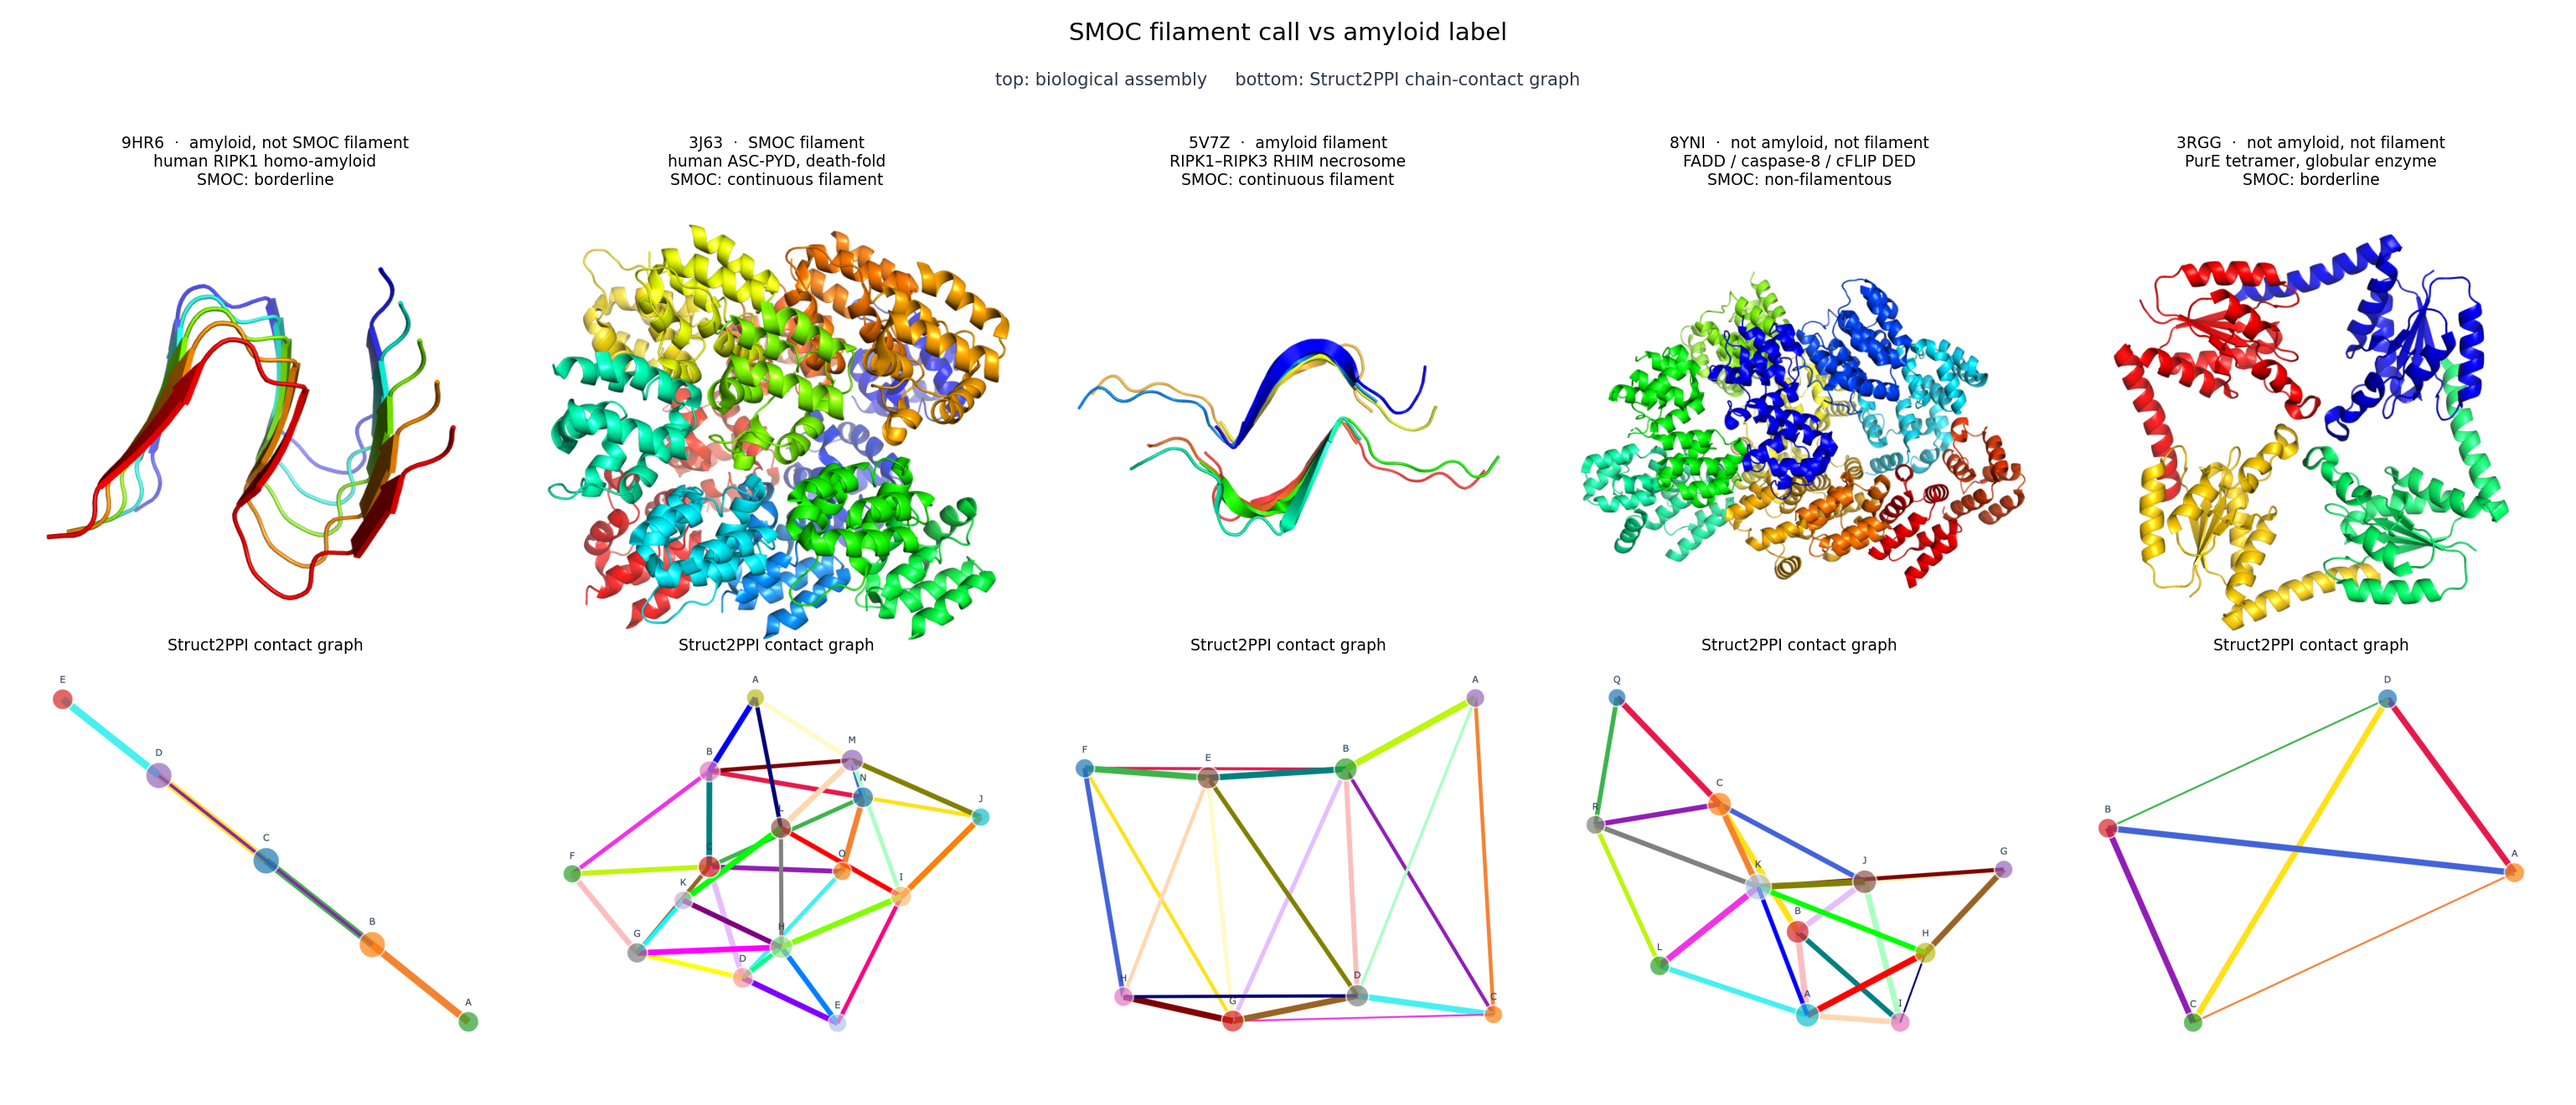
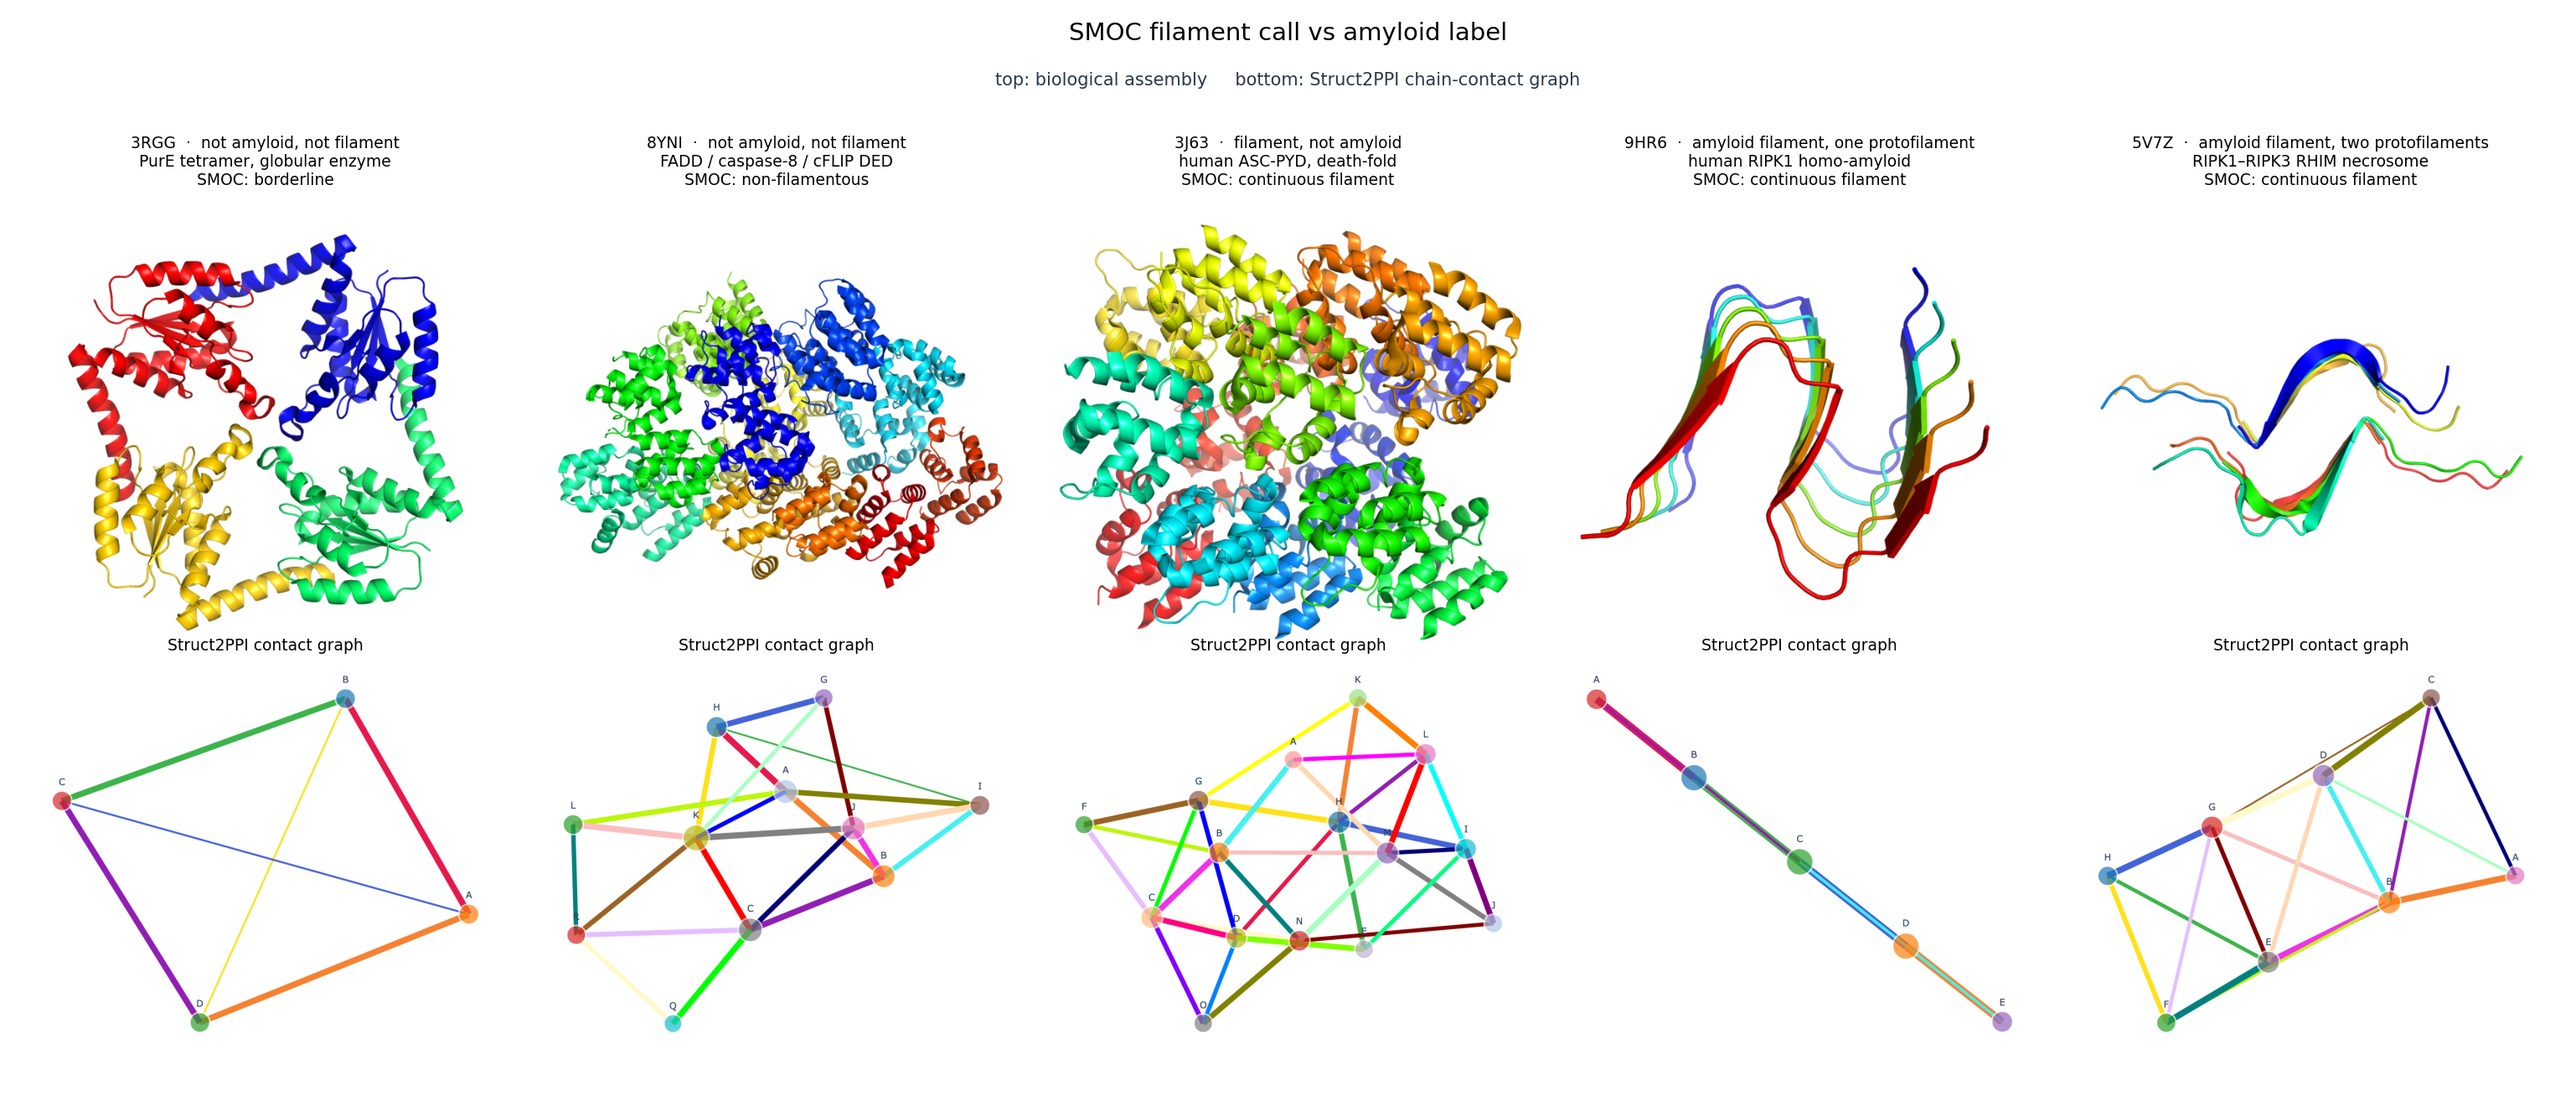
Keep grazing contacts and one-cut interiors from deciding the filament call.
A chain pair sharing a handful of residue contacts is not an interface, but
the half-max banding rule counted it like one, so three second-neighbour
edges of 3 residue pairs widened the band of the RIPK1 fibril 9HR6 and left
its 5-chain stack with no interior to measure. Edges below 5 residue pairs
now stay in the graph and in the crossing profile but no longer define the
band.

That exposed a second artifact: with a single interior cut the CV is zero and
the minimum equals the plateau, so both gates pass without testing anything.
The PurE tetramer 3RGG, a closed 4-chain clique, read as a continuous
filament that way. Two interior cuts are now required, which the reference
filaments 3J63 and 2N1F both have.

diff --git a/smoc_topology.py b/smoc_topology.py
@@ -23,8 +23,10 @@ Method notes:
   - Banding: for the spectral-ordered adjacency matrix, "modal offset set" =
     offsets |pos_i - pos_j| whose edge count is >= 50% of the single most
     frequent offset's count (a half-max band definition, stated explicitly
-    since it is a judgement call). "Fraction of edges outside the modal
-    offset set" is reported as the primary banding-failure diagnostic.
+    since it is a judgement call). Only edges of >= 5 residue pairs enter
+    this histogram, so a grazing chain-pair contact cannot widen the band
+    (see banding_analysis). "Fraction of edges outside the modal offset set"
+    is reported as the primary banding-failure diagnostic.
   - Cut-crossing profile: for each cut position k (between spectral ranks k
     and k+1, k=0..n-2), the number and summed contact-weight of edges with
     one endpoint at rank <=k and the other at rank >k. The end taper window
@@ -68,20 +70,41 @@ def fiedler_order(G_component):
     return ordered_nodes, fiedler_values
 
 
-def banding_analysis(G_component, spectral_order):
+def banding_analysis(G_component, spectral_order, min_interface_weight=5):
     """Offset histogram under spectral order; modal offset set (half-max
-    rule); fraction of edges outside it."""
+    rule); fraction of edges outside it.
+
+    Only edges representing a real interface (weight >= min_interface_weight
+    residue pairs) contribute to the offset histogram. Edges below that stay
+    in the graph -- they still carry connectivity and still appear in the
+    crossing profile -- but they do not define the band. The half-max rule
+    counts edges rather than contact mass, so without this floor a few
+    grazing contacts weigh as much as a full interface: in the RIPK1 fibril
+    9HR6 each chain touches its stacking neighbour across 72 residue pairs
+    at 2.7 Å, while the three second-neighbour pairs share 3 residue pairs
+    at 3.9 Å and vanish entirely below a 3.5 Å cutoff. Those three edges
+    were enough to put offset 2 in the modal set, which set bandwidth=2,
+    left a 5-chain stack with no interior, and reported borderline for what
+    is plainly a continuous stack.
+    """
     pos = {n: i for i, n in enumerate(spectral_order)}
     offset_counts = defaultdict(int)
     offset_weight = defaultdict(float)
     total_edges = 0
+    n_below_floor = 0
     for u, v, data in G_component.edges(data=True):
         off = abs(pos[u] - pos[v])
+        w = data.get('weight', 1)
+        if w < min_interface_weight:
+            n_below_floor += 1
+            continue
         offset_counts[off] += 1
-        offset_weight[off] += data.get('weight', 1)
+        offset_weight[off] += w
         total_edges += 1
     if not offset_counts:
-        return {'offset_counts': {}, 'modal_offsets': set(), 'frac_outside_modal': 1.0, 'bandwidth': 0}
+        return {'offset_counts': {}, 'modal_offsets': set(), 'frac_outside_modal': 1.0,
+                'bandwidth': 0, 'n_edges_below_interface_floor': n_below_floor,
+                'min_interface_weight': min_interface_weight}
     max_count = max(offset_counts.values())
     modal_offsets = {off for off, c in offset_counts.items() if c >= 0.5 * max_count}
     n_outside = sum(c for off, c in offset_counts.items() if off not in modal_offsets)
@@ -89,7 +112,9 @@ def banding_analysis(G_component, spectral_order):
     bandwidth = max(modal_offsets) if modal_offsets else 0
     return {'offset_counts': dict(offset_counts), 'offset_weight': dict(offset_weight),
             'modal_offsets': modal_offsets, 'frac_outside_modal': frac_outside,
-            'bandwidth': bandwidth, 'total_edges': total_edges}
+            'bandwidth': bandwidth, 'total_edges': total_edges,
+            'n_edges_below_interface_floor': n_below_floor,
+            'min_interface_weight': min_interface_weight}
 
 
 def crossing_profile(G_component, spectral_order):
@@ -115,7 +140,14 @@ def interior_stats(counts, weights, end_window):
     # here would mix in the legitimately-lower end-taper cuts and inflate
     # CV for a reason that has nothing to do with interruption -- flag this
     # explicitly rather than silently computing a misleading CV over it.
-    degenerate = hi <= lo
+    #
+    # A single interior cut counts as degenerate too: the CV of one value is
+    # zero by construction and its min equals its plateau, so both gates in
+    # classify_topology pass without testing anything. That is how the PurE
+    # tetramer 3RGG, a closed 4-chain clique, read as a continuous filament.
+    # The reference filaments 3J63 and 2N1F have two interior cuts, so two
+    # is the smallest width that can carry evidence here.
+    degenerate = (hi - lo) < 2
     if degenerate:
         lo, hi = 0, n_cuts
     interior_counts = counts[lo:hi]
@@ -244,9 +276,9 @@ def classify_topology(components_analysis, n_total_chains,
     # meaningful flatness measure here. Report borderline rather than guess.
     if istats.get('degenerate_interior'):
         return {'call': 'borderline',
-                'reason': f'no true interior distinct from end-taper (structure too short for its own '
-                          f'bandwidth={comp["banding"]["bandwidth"]}); CV={cv:.3f} not reliable here '
-                          f'(banding frac_outside_modal={frac_outside:.2f}, reported not gating)',
+                'reason': f'fewer than 2 interior cuts distinct from end-taper (structure too short for '
+                          f'its own bandwidth={comp["banding"]["bandwidth"]}); CV={cv:.3f} not reliable '
+                          f'here (banding frac_outside_modal={frac_outside:.2f}, reported not gating)',
                 'n_components': 1}
 
     # sharp localized dip -> interrupted, regardless of overall CV

diff --git a/README.md b/README.md
@@ -39,11 +39,13 @@ python ppi_graph.py structure.pdb --topology
 
 The primary gate is the coefficient of variation of the interior cut-crossing weights, plus a separate dip-ratio check for a break at one position. Banding (`frac_outside_modal`) is still computed and written in the report, but it does not decide the call: that fraction depends on helical start number and rise, so a cutoff fit on one family (ASC-PYD, 3-start) does not transfer to DED, DD, or RHIM assemblies.
 
+Only chain pairs sharing at least 5 residue contacts define the band. Weaker pairs stay in the graph and in the crossing profile, but a grazing contact should not widen the band: in the RIPK1 fibril 9HR6 each chain meets its stacking neighbour across 72 residue pairs at 2.7 Å, while three second-neighbour pairs share 3 residue pairs at 3.9 Å and disappear below a 3.5 Å cutoff.
+
 This call is a graph-topology label. It is not an amyloid classifier. A cross-β fibril and an α-helical death-fold filament can both be continuous filaments; a short amyloid or a closed platform can fail the call.
 
 ![SMOC examples: amyloid vs filament](smoc_examples.png)
 
-Left to right: RIPK1 amyloid that is too short for a continuous-filament call (9HR6); ASC-PYD continuous filament, not amyloid (3J63); RIPK1–RIPK3 amyloid that is a continuous filament (5V7Z); FADD/caspase-8/cFLIP DED assembly, not a filament (8YNI); PurE tetramer, a globular oligomer (3RGG). Contact graphs are Struct2PPI’s own layout.
+Left to right: PurE tetramer, a globular oligomer (3RGG); FADD/caspase-8/cFLIP DED assembly, not a filament (8YNI); ASC-PYD continuous filament, not amyloid (3J63); RIPK1 amyloid as a single protofilament (9HR6); RIPK1–RIPK3 amyloid as two interleaved protofilaments (5V7Z). Contact graphs are Struct2PPI’s own layout.
 
 ### `ppi_graph_3d.py` - STRING DB Style with 3D Structures
 Network graph with 3D protein structures rendered inside nodes using 3Dmol.js.
